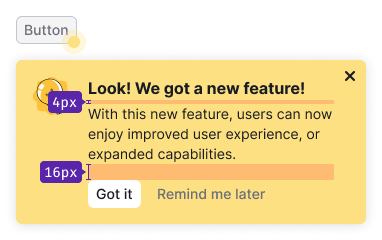
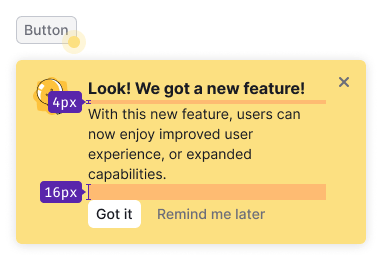
[docs] Updated FeaturePopover design guide

diff --git a/website/docs/components/feature-popover/feature-popover.md b/website/docs/components/feature-popover/feature-popover.md
@@ -11,6 +11,7 @@ import React from 'react';
 
 import Button from 'intergalactic/button';
 import FeaturePopover from 'intergalactic/feature-popover';
+import { Text } from 'intergalactic/typography';
 import PlaygroundGeneration from '@components/PlaygroundGeneration';
 
 const PLACEMENT = [
@@ -34,7 +35,7 @@ const App = PlaygroundGeneration((createGroupWidgets) => {
   const closeIcon = bool({
     key: 'icon',
     defaultValue: true,
-    label: 'Show Close icon',
+    label: 'Show Close button',
   });
 
   const visible = bool({
@@ -67,8 +68,9 @@ const App = PlaygroundGeneration((createGroupWidgets) => {
         </Button>
       </FeaturePopover.Trigger>
       <FeaturePopover.Popper closeIcon={closeIcon} wMax={250}>
-        With this new feature, users can now enjoy improved user experience, or expanded
-        capabilities.
+        <Text size={200}>
+          With this new feature, users can now enjoy improved user experience, or expanded capabilities.
+        </Text>
       </FeaturePopover.Popper>
     </FeaturePopover>
   );
@@ -128,9 +130,9 @@ The title should be brief, contain a call to action, and summarize the main thou
 
 The feature description should be short and informative. Try using no more than one or two sentences. A paragraph may contain [links](/components/link/link) and formatted text.
 
-### Close icon
+### Close button
 
-`Close` icon is always placed in the upper right corner of the component. It closes FeaturePopover. We recommend you to show it always, and not to hide this control from the user.
+The **Close** button is always placed in the upper-right corner of the `FeaturePopover` and is used to close it. We recommend always displaying this control and not hiding it from the user.
 
 ### Buttons
 
@@ -150,16 +152,6 @@ Table: FeaturePopover illustration sizes
 | Small, 40px * 40px      | ![](static/spotlight-default.png) |
 | Medium, 80px * 80px     | ![](static/spotlight-big.png)     |
 
-### Styles
-
-Table: FeaturePopover default styles
-
-| Element      | Tokens                                                                              |
-| ------------ | ----------------------------------------------------------------------------------- |
-| Container    | `--box-shadow-popper` for box-shadow, `--bg-primary-highlight` for background-color |
-| Spot         | `--bg-primary-highlight` for background-color                                       |
-| `Close` icon | `--icon-non-interactive` for background-color                                       |
-
 ### Maximum width
 
 You can use `wMax` property to set the maximum width of the FeaturePopover's popper. But we recommend to set the following widths:
@@ -169,13 +161,11 @@ You can use `wMax` property to set the maximum width of the FeaturePopover's pop
 
 ### Content indents
 
-![Paddings of the container are 16px (padding-right is 32px).](static/spotlight-paddings.png)
-
 ![](static/spotlight-content-margins.png)
 
-- For title use 16px font-size (`--fs-300`, `--lh-300` tokens). Margin-bottom is 4px (use `--spacing-1x` token).
-- For paragraph use 14px font-size (`--fs-200`, `--lh-200` tokens).
-- The invert `primary` & `tertiary` muted button has M size. Top margin for the group of controls is 16px (`--spacing-4x` token).
+- For the title use 16px font-size (`--fs-300`, `--lh-300` tokens). Margin-bottom is 4px (use `--spacing-1x` token).
+- For the paragraph use 14px font-size (`--fs-200`, `--lh-200` tokens).
+- The invert `primary` & `tertiary` muted buttons have M size. Top margin for the group of controls is 16px (`--spacing-4x` token).
 - Illustration's margin-right is 16px (`--spacing-4x` token).
 
 ## Appearance and hiding
